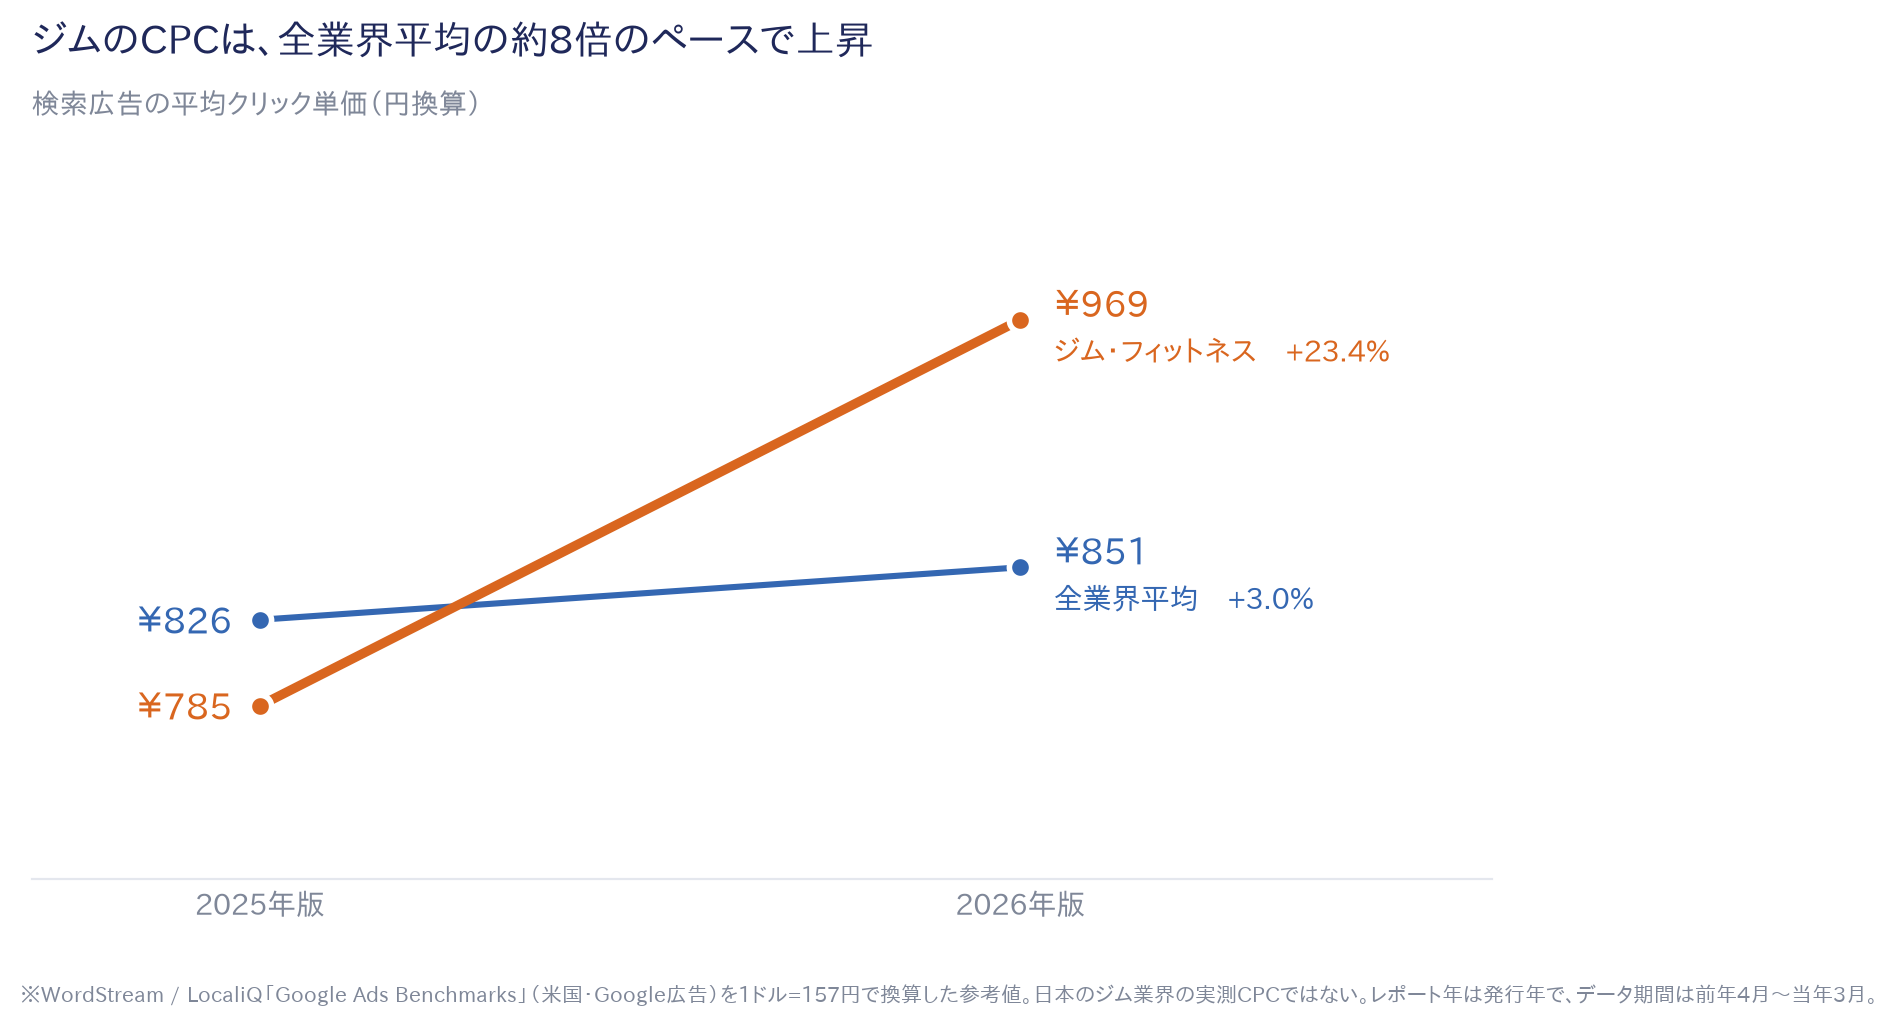
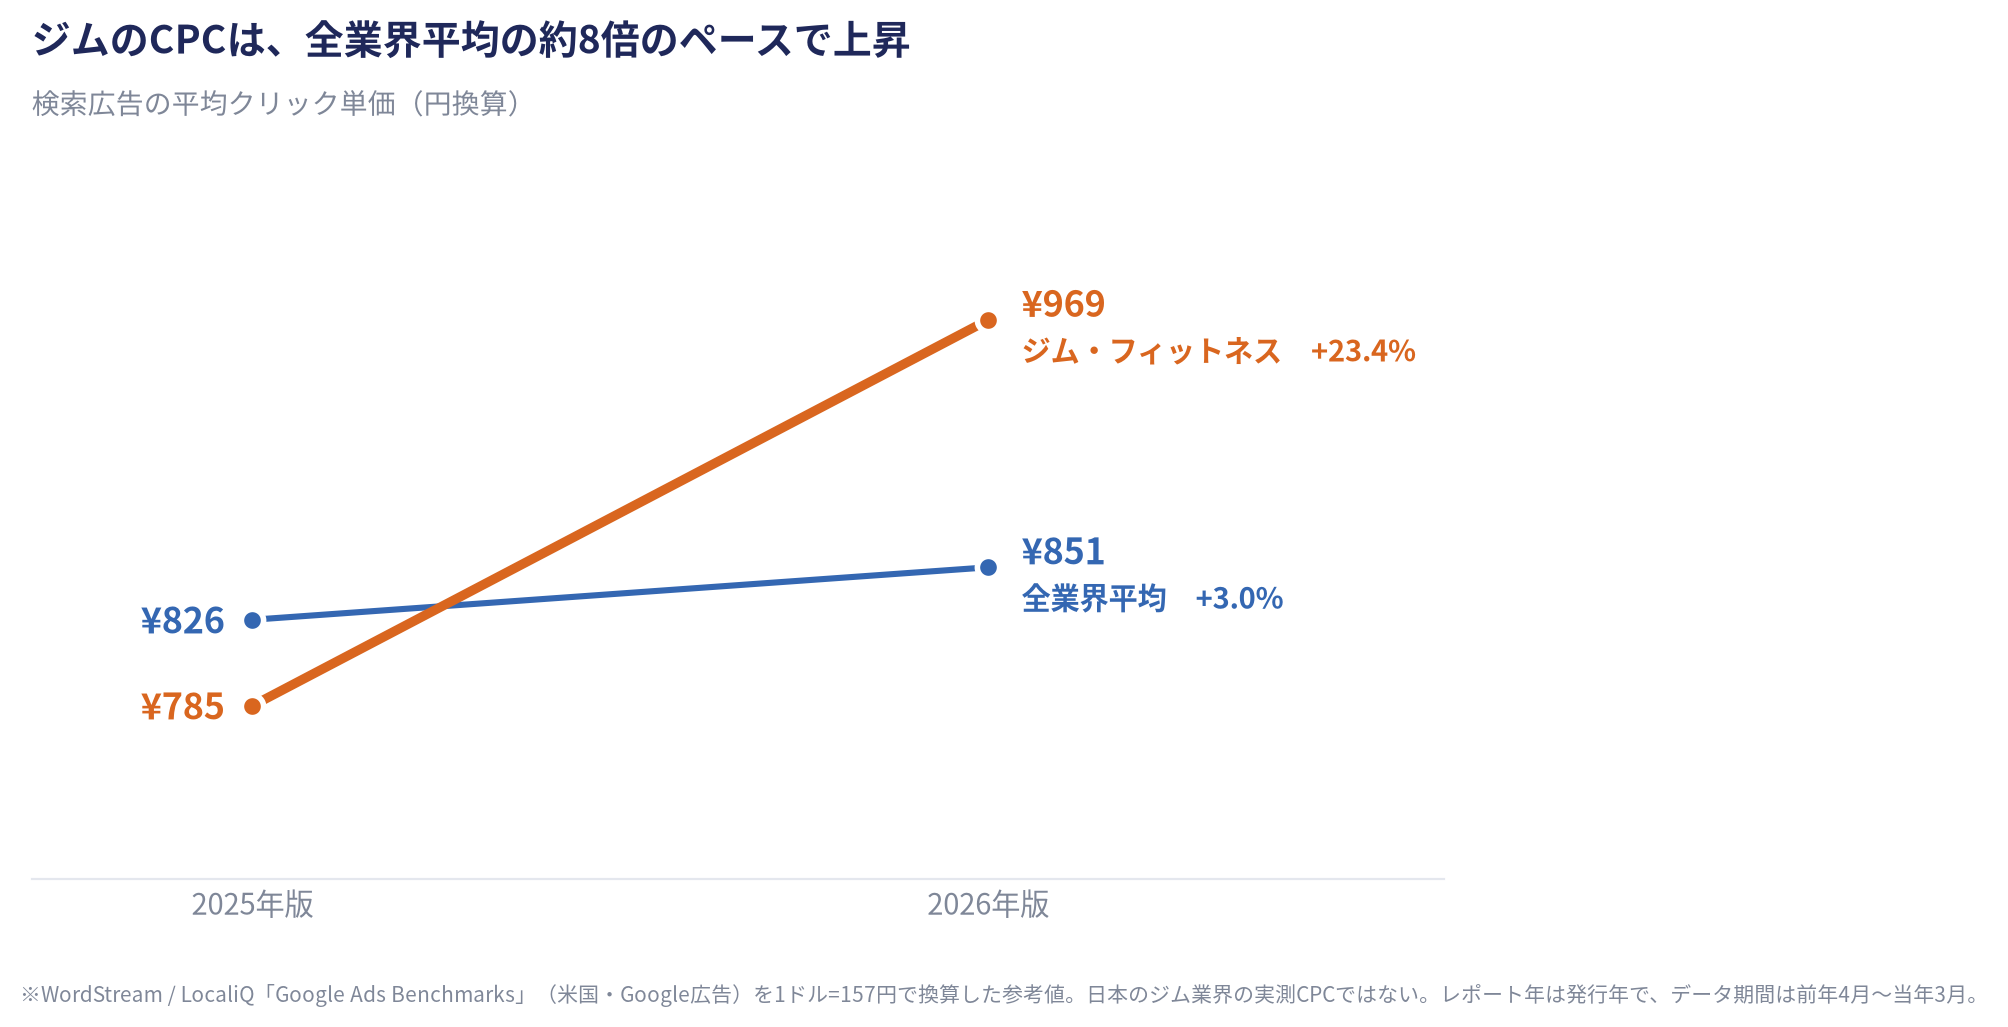
make_images.py: フォント候補でIPAよりNotoを優先し、太字を効かせる
IPAゴシックには太字が無く、選ばれると fontweight="bold" が黙って通常字に
落ちて強調が消えていた。クラウドは `apt-get install -y fonts-noto-cjk` で
Noto Sans CJK JP（Bold付き）が入る。PCでは従来どおりメイリオが最優先。

ジム業界のCPC推移図を太字ありで再生成。

Claude-Session: https://claude.ai/code/session_01FmrRx4tXHCxsbikadQsdHi

diff --git a/_build/make_images.py b/_build/make_images.py
@@ -47,7 +47,10 @@ SURFACE = "#FFFFFF"
 ACCENT = "#D9661F"      # 強調（オレンジ系列色と同一）
 
 # ---- フォント（PCで再生成するならメイリオが使われる）----
-FONT_CANDIDATES = ["Meiryo", "メイリオ", "IPAPGothic", "IPAGothic", "Noto Sans CJK JP"]
+# ★IPAゴシックより Noto を先に置く。**IPAには太字（Bold）が無い**ため、
+#   IPAが選ばれると fontweight="bold" が黙って通常字に落ちて強調が消える。
+#   クラウド環境では `apt-get install -y fonts-noto-cjk` で入る。
+FONT_CANDIDATES = ["Meiryo", "メイリオ", "Noto Sans CJK JP", "IPAPGothic", "IPAGothic"]
 
 
 def pick_font():
